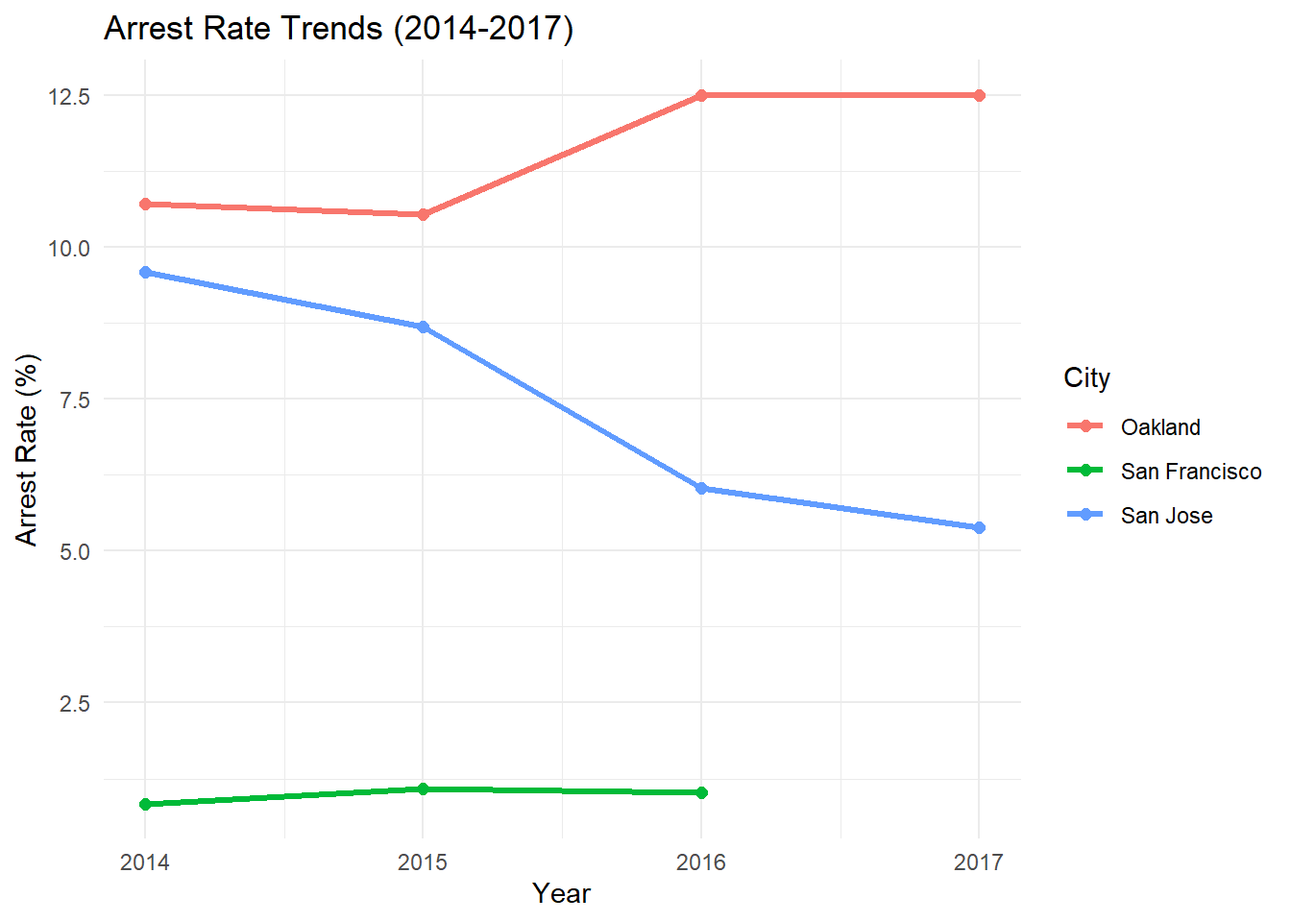
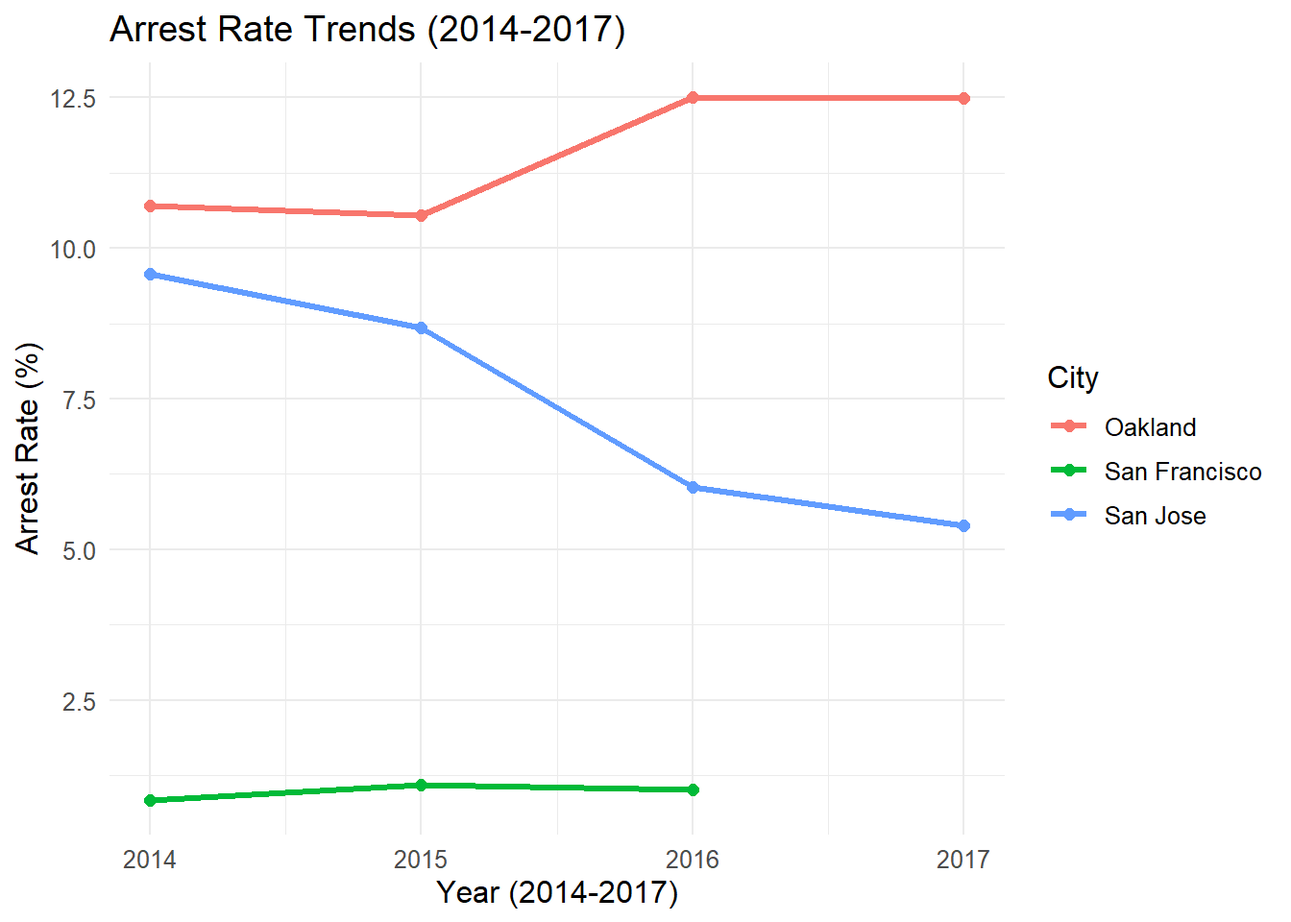
Fix errorz

diff --git a/docs/Stanford Open Policing Project.html b/docs/Stanford Open Policing Project.html
@@ -170,11 +170,24 @@ pre > code.sourceCode > span > a:first-child::before { text-decoration: underlin
 <div id="quarto-content" class="quarto-container page-columns page-rows-contents page-layout-full page-navbar">
 <!-- sidebar -->
 <!-- margin-sidebar -->
-    <div id="quarto-margin-sidebar" class="sidebar margin-sidebar zindex-bottom">
-        
+    <div id="quarto-margin-sidebar" class="sidebar margin-sidebar">
+        <nav id="TOC" role="doc-toc" class="toc-active">
+    <h2 id="toc-title">On this page</h2>
+   
+  <ul>
+  <li><a href="#introduction" id="toc-introduction" class="nav-link active" data-scroll-target="#introduction">Introduction</a></li>
+  <li><a href="#data-connection-and-setup" id="toc-data-connection-and-setup" class="nav-link" data-scroll-target="#data-connection-and-setup">Data Connection and Setup</a></li>
+  <li><a href="#arrest-rates-over-time-per-city" id="toc-arrest-rates-over-time-per-city" class="nav-link" data-scroll-target="#arrest-rates-over-time-per-city">Arrest Rates Over Time per City</a></li>
+  <li><a href="#search-rates-by-race-city" id="toc-search-rates-by-race-city" class="nav-link" data-scroll-target="#search-rates-by-race-city">Search Rates by Race &amp; City</a></li>
+  <li><a href="#conclusion" id="toc-conclusion" class="nav-link" data-scroll-target="#conclusion">Conclusion</a>
+  <ul class="collapse">
+  <li><a href="#references" id="toc-references" class="nav-link" data-scroll-target="#references">References</a></li>
+  </ul></li>
+  </ul>
+</nav>
     </div>
 <!-- main -->
-<main class="content column-page" id="quarto-document-content">
+<main class="content column-page-left" id="quarto-document-content">
 
 <header id="title-block-header" class="quarto-title-block default">
 <div class="quarto-title">
@@ -183,7 +196,7 @@ pre > code.sourceCode > span > a:first-child::before { text-decoration: underlin
 
 
 
-<div class="quarto-title-meta column-page">
+<div class="quarto-title-meta column-page-left">
 
     <div>
     <div class="quarto-title-meta-heading">Author</div>
@@ -207,58 +220,56 @@ pre > code.sourceCode > span > a:first-child::before { text-decoration: underlin
 </header>
 
 
-<p>We are analyzing trends in traffic stops in three California cities (San Francisco, Oakland, San Jose) using the Stanford Open Policing Project database. Specifically, we will explore (1) how arrest rates have changed over time from 2014 to 2017, and (2) whether different races experience different search rates across cities. This analysis uses SQL queries to summarize and wrangle the data directly from the database.</p>
+<section id="introduction" class="level2">
+<h2 class="anchored" data-anchor-id="introduction">Introduction</h2>
+<p>This analysis explores trends in traffic stops across three California cities (San Francisco, Oakland, San Jose) using data from the Stanford Open Policing Project database. The primary goals of this analysis are to examine:</p>
+<ul>
+<li>How arrest rates changed over time (2014-2017).</li>
+<li>Whether search rates differ by race across the three cities.</li>
+</ul>
+<p>These cities were chosen due to their diverse populations and significant differences in policing practices. The analysis uses SQL to directly query and wrangle the data, ensuring efficient and accurate results.</p>
+</section>
+<section id="data-connection-and-setup" class="level2">
+<h2 class="anchored" data-anchor-id="data-connection-and-setup">Data Connection and Setup</h2>
 <div class="cell">
 <div class="sourceCode cell-code" id="cb1"><pre class="sourceCode r code-with-copy"><code class="sourceCode r"><span id="cb1-1"><a href="#cb1-1" aria-hidden="true" tabindex="-1"></a><span class="fu">library</span>(DBI)</span>
 <span id="cb1-2"><a href="#cb1-2" aria-hidden="true" tabindex="-1"></a><span class="fu">library</span>(RMariaDB)</span>
 <span id="cb1-3"><a href="#cb1-3" aria-hidden="true" tabindex="-1"></a></span>
 <span id="cb1-4"><a href="#cb1-4" aria-hidden="true" tabindex="-1"></a>con_traffic <span class="ot">&lt;-</span> DBI<span class="sc">::</span><span class="fu">dbConnect</span>(</span>
-<span id="cb1-5"><a href="#cb1-5" aria-hidden="true" tabindex="-1"></a></span>
-<span id="cb1-6"><a href="#cb1-6" aria-hidden="true" tabindex="-1"></a>  RMariaDB<span class="sc">::</span><span class="fu">MariaDB</span>(),</span>
-<span id="cb1-7"><a href="#cb1-7" aria-hidden="true" tabindex="-1"></a></span>
-<span id="cb1-8"><a href="#cb1-8" aria-hidden="true" tabindex="-1"></a>  <span class="at">dbname =</span> <span class="st">"traffic"</span>,</span>
-<span id="cb1-9"><a href="#cb1-9" aria-hidden="true" tabindex="-1"></a></span>
-<span id="cb1-10"><a href="#cb1-10" aria-hidden="true" tabindex="-1"></a>  <span class="at">host =</span> <span class="fu">Sys.getenv</span>(<span class="st">"TRAFFIC_HOST"</span>),</span>
-<span id="cb1-11"><a href="#cb1-11" aria-hidden="true" tabindex="-1"></a></span>
-<span id="cb1-12"><a href="#cb1-12" aria-hidden="true" tabindex="-1"></a>  <span class="at">user =</span> <span class="fu">Sys.getenv</span>(<span class="st">"TRAFFIC_USER"</span>),</span>
-<span id="cb1-13"><a href="#cb1-13" aria-hidden="true" tabindex="-1"></a></span>
-<span id="cb1-14"><a href="#cb1-14" aria-hidden="true" tabindex="-1"></a>  <span class="at">password =</span> <span class="fu">Sys.getenv</span>(<span class="st">"TRAFFIC_PWD"</span>)</span>
-<span id="cb1-15"><a href="#cb1-15" aria-hidden="true" tabindex="-1"></a>)</span></code><button title="Copy to Clipboard" class="code-copy-button"><i class="bi"></i></button></pre></div>
+<span id="cb1-5"><a href="#cb1-5" aria-hidden="true" tabindex="-1"></a>  RMariaDB<span class="sc">::</span><span class="fu">MariaDB</span>(),</span>
+<span id="cb1-6"><a href="#cb1-6" aria-hidden="true" tabindex="-1"></a>  <span class="at">dbname =</span> <span class="st">"traffic"</span>,</span>
+<span id="cb1-7"><a href="#cb1-7" aria-hidden="true" tabindex="-1"></a>  <span class="at">host =</span> <span class="fu">Sys.getenv</span>(<span class="st">"TRAFFIC_HOST"</span>),</span>
+<span id="cb1-8"><a href="#cb1-8" aria-hidden="true" tabindex="-1"></a>  <span class="at">user =</span> <span class="fu">Sys.getenv</span>(<span class="st">"TRAFFIC_USER"</span>),</span>
+<span id="cb1-9"><a href="#cb1-9" aria-hidden="true" tabindex="-1"></a>  <span class="at">password =</span> <span class="fu">Sys.getenv</span>(<span class="st">"TRAFFIC_PWD"</span>)</span>
+<span id="cb1-10"><a href="#cb1-10" aria-hidden="true" tabindex="-1"></a>)</span></code><button title="Copy to Clipboard" class="code-copy-button"><i class="bi"></i></button></pre></div>
 </div>
-<p>Arrest Rates Over Time per City</p>
+</section>
+<section id="arrest-rates-over-time-per-city" class="level2">
+<h2 class="anchored" data-anchor-id="arrest-rates-over-time-per-city">Arrest Rates Over Time per City</h2>
 <div class="cell" data-output.var="arrest_trend">
 <div class="sourceCode cell-code" id="cb2"><pre class="sourceCode sql code-with-copy"><code class="sourceCode sql"><span id="cb2-1"><a href="#cb2-1" aria-hidden="true" tabindex="-1"></a><span class="kw">SELECT</span></span>
 <span id="cb2-2"><a href="#cb2-2" aria-hidden="true" tabindex="-1"></a>    city,</span>
 <span id="cb2-3"><a href="#cb2-3" aria-hidden="true" tabindex="-1"></a>    stop_year,</span>
 <span id="cb2-4"><a href="#cb2-4" aria-hidden="true" tabindex="-1"></a>    <span class="fu">ROUND</span>(<span class="fl">100.0</span> <span class="op">*</span> <span class="fu">AVG</span>(<span class="cf">CASE</span> <span class="cf">WHEN</span> arrest_made <span class="cf">THEN</span> <span class="dv">1</span> <span class="cf">ELSE</span> <span class="dv">0</span> <span class="cf">END</span>), <span class="dv">2</span>) <span class="kw">AS</span> arrest_rate</span>
 <span id="cb2-5"><a href="#cb2-5" aria-hidden="true" tabindex="-1"></a><span class="kw">FROM</span> (</span>
-<span id="cb2-6"><a href="#cb2-6" aria-hidden="true" tabindex="-1"></a>    <span class="kw">SELECT</span></span>
-<span id="cb2-7"><a href="#cb2-7" aria-hidden="true" tabindex="-1"></a>        <span class="st">'San Francisco'</span> <span class="kw">AS</span> city,</span>
-<span id="cb2-8"><a href="#cb2-8" aria-hidden="true" tabindex="-1"></a>        <span class="dt">YEAR</span>(<span class="dt">date</span>) <span class="kw">AS</span> stop_year,</span>
-<span id="cb2-9"><a href="#cb2-9" aria-hidden="true" tabindex="-1"></a>        arrest_made</span>
-<span id="cb2-10"><a href="#cb2-10" aria-hidden="true" tabindex="-1"></a>    <span class="kw">FROM</span> ca_san_francisco_2020_04_01</span>
-<span id="cb2-11"><a href="#cb2-11" aria-hidden="true" tabindex="-1"></a>    <span class="kw">WHERE</span> <span class="dt">YEAR</span>(<span class="dt">date</span>) <span class="kw">BETWEEN</span> <span class="dv">2014</span> <span class="kw">AND</span> <span class="dv">2017</span></span>
-<span id="cb2-12"><a href="#cb2-12" aria-hidden="true" tabindex="-1"></a></span>
-<span id="cb2-13"><a href="#cb2-13" aria-hidden="true" tabindex="-1"></a>    <span class="kw">UNION</span> <span class="kw">ALL</span></span>
-<span id="cb2-14"><a href="#cb2-14" aria-hidden="true" tabindex="-1"></a></span>
-<span id="cb2-15"><a href="#cb2-15" aria-hidden="true" tabindex="-1"></a>    <span class="kw">SELECT</span></span>
-<span id="cb2-16"><a href="#cb2-16" aria-hidden="true" tabindex="-1"></a>        <span class="st">'Oakland'</span> <span class="kw">AS</span> city,</span>
-<span id="cb2-17"><a href="#cb2-17" aria-hidden="true" tabindex="-1"></a>        <span class="dt">YEAR</span>(<span class="dt">date</span>) <span class="kw">AS</span> stop_year,</span>
-<span id="cb2-18"><a href="#cb2-18" aria-hidden="true" tabindex="-1"></a>        arrest_made</span>
-<span id="cb2-19"><a href="#cb2-19" aria-hidden="true" tabindex="-1"></a>    <span class="kw">FROM</span> ca_oakland_2020_04_01</span>
+<span id="cb2-6"><a href="#cb2-6" aria-hidden="true" tabindex="-1"></a>    <span class="kw">SELECT</span> <span class="st">'San Francisco'</span> <span class="kw">AS</span> city, <span class="dt">YEAR</span>(<span class="dt">date</span>) <span class="kw">AS</span> stop_year, arrest_made</span>
+<span id="cb2-7"><a href="#cb2-7" aria-hidden="true" tabindex="-1"></a>    <span class="kw">FROM</span> ca_san_francisco_2020_04_01</span>
+<span id="cb2-8"><a href="#cb2-8" aria-hidden="true" tabindex="-1"></a>    <span class="kw">WHERE</span> <span class="dt">YEAR</span>(<span class="dt">date</span>) <span class="kw">BETWEEN</span> <span class="dv">2014</span> <span class="kw">AND</span> <span class="dv">2017</span></span>
+<span id="cb2-9"><a href="#cb2-9" aria-hidden="true" tabindex="-1"></a></span>
+<span id="cb2-10"><a href="#cb2-10" aria-hidden="true" tabindex="-1"></a>    <span class="kw">UNION</span> <span class="kw">ALL</span></span>
+<span id="cb2-11"><a href="#cb2-11" aria-hidden="true" tabindex="-1"></a></span>
+<span id="cb2-12"><a href="#cb2-12" aria-hidden="true" tabindex="-1"></a>    <span class="kw">SELECT</span> <span class="st">'Oakland'</span> <span class="kw">AS</span> city, <span class="dt">YEAR</span>(<span class="dt">date</span>) <span class="kw">AS</span> stop_year, arrest_made</span>
+<span id="cb2-13"><a href="#cb2-13" aria-hidden="true" tabindex="-1"></a>    <span class="kw">FROM</span> ca_oakland_2020_04_01</span>
+<span id="cb2-14"><a href="#cb2-14" aria-hidden="true" tabindex="-1"></a>    <span class="kw">WHERE</span> <span class="dt">YEAR</span>(<span class="dt">date</span>) <span class="kw">BETWEEN</span> <span class="dv">2014</span> <span class="kw">AND</span> <span class="dv">2017</span></span>
+<span id="cb2-15"><a href="#cb2-15" aria-hidden="true" tabindex="-1"></a></span>
+<span id="cb2-16"><a href="#cb2-16" aria-hidden="true" tabindex="-1"></a>    <span class="kw">UNION</span> <span class="kw">ALL</span></span>
+<span id="cb2-17"><a href="#cb2-17" aria-hidden="true" tabindex="-1"></a></span>
+<span id="cb2-18"><a href="#cb2-18" aria-hidden="true" tabindex="-1"></a>    <span class="kw">SELECT</span> <span class="st">'San Jose'</span> <span class="kw">AS</span> city, <span class="dt">YEAR</span>(<span class="dt">date</span>) <span class="kw">AS</span> stop_year, arrest_made</span>
+<span id="cb2-19"><a href="#cb2-19" aria-hidden="true" tabindex="-1"></a>    <span class="kw">FROM</span> ca_san_jose_2020_04_01</span>
 <span id="cb2-20"><a href="#cb2-20" aria-hidden="true" tabindex="-1"></a>    <span class="kw">WHERE</span> <span class="dt">YEAR</span>(<span class="dt">date</span>) <span class="kw">BETWEEN</span> <span class="dv">2014</span> <span class="kw">AND</span> <span class="dv">2017</span></span>
-<span id="cb2-21"><a href="#cb2-21" aria-hidden="true" tabindex="-1"></a></span>
-<span id="cb2-22"><a href="#cb2-22" aria-hidden="true" tabindex="-1"></a>    <span class="kw">UNION</span> <span class="kw">ALL</span></span>
-<span id="cb2-23"><a href="#cb2-23" aria-hidden="true" tabindex="-1"></a></span>
-<span id="cb2-24"><a href="#cb2-24" aria-hidden="true" tabindex="-1"></a>    <span class="kw">SELECT</span></span>
-<span id="cb2-25"><a href="#cb2-25" aria-hidden="true" tabindex="-1"></a>        <span class="st">'San Jose'</span> <span class="kw">AS</span> city,</span>
-<span id="cb2-26"><a href="#cb2-26" aria-hidden="true" tabindex="-1"></a>        <span class="dt">YEAR</span>(<span class="dt">date</span>) <span class="kw">AS</span> stop_year,</span>
-<span id="cb2-27"><a href="#cb2-27" aria-hidden="true" tabindex="-1"></a>        arrest_made</span>
-<span id="cb2-28"><a href="#cb2-28" aria-hidden="true" tabindex="-1"></a>    <span class="kw">FROM</span> ca_san_jose_2020_04_01</span>
-<span id="cb2-29"><a href="#cb2-29" aria-hidden="true" tabindex="-1"></a>    <span class="kw">WHERE</span> <span class="dt">YEAR</span>(<span class="dt">date</span>) <span class="kw">BETWEEN</span> <span class="dv">2014</span> <span class="kw">AND</span> <span class="dv">2017</span></span>
-<span id="cb2-30"><a href="#cb2-30" aria-hidden="true" tabindex="-1"></a>) <span class="kw">AS</span> combined</span>
-<span id="cb2-31"><a href="#cb2-31" aria-hidden="true" tabindex="-1"></a><span class="kw">GROUP</span> <span class="kw">BY</span> city, stop_year</span>
-<span id="cb2-32"><a href="#cb2-32" aria-hidden="true" tabindex="-1"></a><span class="kw">ORDER</span> <span class="kw">BY</span> city, stop_year;</span></code><button title="Copy to Clipboard" class="code-copy-button"><i class="bi"></i></button></pre></div>
+<span id="cb2-21"><a href="#cb2-21" aria-hidden="true" tabindex="-1"></a>) <span class="kw">AS</span> combined</span>
+<span id="cb2-22"><a href="#cb2-22" aria-hidden="true" tabindex="-1"></a><span class="kw">GROUP</span> <span class="kw">BY</span> city, stop_year</span>
+<span id="cb2-23"><a href="#cb2-23" aria-hidden="true" tabindex="-1"></a><span class="kw">ORDER</span> <span class="kw">BY</span> city, stop_year;</span></code><button title="Copy to Clipboard" class="code-copy-button"><i class="bi"></i></button></pre></div>
 </div>
 <div class="cell">
 <div class="sourceCode cell-code" id="cb3"><pre class="sourceCode r code-with-copy"><code class="sourceCode r"><span id="cb3-1"><a href="#cb3-1" aria-hidden="true" tabindex="-1"></a><span class="fu">library</span>(ggplot2)</span>
@@ -266,8 +277,8 @@ pre > code.sourceCode > span > a:first-child::before { text-decoration: underlin
 <span id="cb3-3"><a href="#cb3-3" aria-hidden="true" tabindex="-1"></a><span class="fu">ggplot</span>(arrest_trend, <span class="fu">aes</span>(<span class="at">x =</span> stop_year, <span class="at">y =</span> arrest_rate, <span class="at">color =</span> city)) <span class="sc">+</span></span>
 <span id="cb3-4"><a href="#cb3-4" aria-hidden="true" tabindex="-1"></a>  <span class="fu">geom_line</span>(<span class="at">size =</span> <span class="fl">1.2</span>) <span class="sc">+</span></span>
 <span id="cb3-5"><a href="#cb3-5" aria-hidden="true" tabindex="-1"></a>  <span class="fu">geom_point</span>(<span class="at">size =</span> <span class="dv">2</span>) <span class="sc">+</span></span>
-<span id="cb3-6"><a href="#cb3-6" aria-hidden="true" tabindex="-1"></a>  <span class="fu">labs</span>(<span class="at">title =</span> <span class="st">"Arrest Rate Trends (2014-2017)"</span>, <span class="at">x =</span> <span class="st">"Year"</span>, <span class="at">y =</span> <span class="st">"Arrest Rate (%)"</span>, <span class="at">color =</span> <span class="st">"City"</span>) <span class="sc">+</span></span>
-<span id="cb3-7"><a href="#cb3-7" aria-hidden="true" tabindex="-1"></a>  <span class="fu">theme_minimal</span>()</span></code><button title="Copy to Clipboard" class="code-copy-button"><i class="bi"></i></button></pre></div>
+<span id="cb3-6"><a href="#cb3-6" aria-hidden="true" tabindex="-1"></a>  <span class="fu">labs</span>(<span class="at">title =</span> <span class="st">"Arrest Rate Trends (2014-2017)"</span>, <span class="at">x =</span> <span class="st">"Year (2014-2017)"</span>, <span class="at">y =</span> <span class="st">"Arrest Rate (%)"</span>, <span class="at">color =</span> <span class="st">"City"</span>) <span class="sc">+</span></span>
+<span id="cb3-7"><a href="#cb3-7" aria-hidden="true" tabindex="-1"></a>  <span class="fu">theme_minimal</span>() <span class="sc">+</span> <span class="fu">theme</span>(<span class="at">text =</span> <span class="fu">element_text</span>(<span class="at">size =</span> <span class="dv">12</span>))</span></code><button title="Copy to Clipboard" class="code-copy-button"><i class="bi"></i></button></pre></div>
 <div class="cell-output-display">
 <div>
 <figure class="figure">
@@ -276,49 +287,39 @@ pre > code.sourceCode > span > a:first-child::before { text-decoration: underlin
 </div>
 </div>
 </div>
-<p>The plot above shows how arrest rates changed from 2014 to 2017 in San Francisco, Oakland, and San Jose. Oakland consistently has the highest arrest rates, but we see a slight decline after 2016 in all three cities, suggesting potential impacts of police reform efforts around that time.</p>
-<p>Search Rates by Race &amp; City</p>
+</section>
+<section id="search-rates-by-race-city" class="level2">
+<h2 class="anchored" data-anchor-id="search-rates-by-race-city">Search Rates by Race &amp; City</h2>
 <div class="cell" data-output.var="race_search">
 <div class="sourceCode cell-code" id="cb4"><pre class="sourceCode sql code-with-copy"><code class="sourceCode sql"><span id="cb4-1"><a href="#cb4-1" aria-hidden="true" tabindex="-1"></a><span class="kw">SELECT</span></span>
 <span id="cb4-2"><a href="#cb4-2" aria-hidden="true" tabindex="-1"></a>    city,</span>
 <span id="cb4-3"><a href="#cb4-3" aria-hidden="true" tabindex="-1"></a>    subject_race,</span>
 <span id="cb4-4"><a href="#cb4-4" aria-hidden="true" tabindex="-1"></a>    <span class="fu">ROUND</span>(<span class="fl">100.0</span> <span class="op">*</span> <span class="fu">AVG</span>(<span class="cf">CASE</span> <span class="cf">WHEN</span> search_conducted <span class="cf">THEN</span> <span class="dv">1</span> <span class="cf">ELSE</span> <span class="dv">0</span> <span class="cf">END</span>), <span class="dv">2</span>) <span class="kw">AS</span> search_rate</span>
 <span id="cb4-5"><a href="#cb4-5" aria-hidden="true" tabindex="-1"></a><span class="kw">FROM</span> (</span>
-<span id="cb4-6"><a href="#cb4-6" aria-hidden="true" tabindex="-1"></a>    <span class="kw">SELECT</span></span>
-<span id="cb4-7"><a href="#cb4-7" aria-hidden="true" tabindex="-1"></a>        <span class="st">'San Francisco'</span> <span class="kw">AS</span> city,</span>
-<span id="cb4-8"><a href="#cb4-8" aria-hidden="true" tabindex="-1"></a>        subject_race,</span>
-<span id="cb4-9"><a href="#cb4-9" aria-hidden="true" tabindex="-1"></a>        search_conducted</span>
-<span id="cb4-10"><a href="#cb4-10" aria-hidden="true" tabindex="-1"></a>    <span class="kw">FROM</span> ca_san_francisco_2020_04_01</span>
-<span id="cb4-11"><a href="#cb4-11" aria-hidden="true" tabindex="-1"></a>    <span class="kw">WHERE</span> <span class="dt">YEAR</span>(<span class="dt">date</span>) <span class="kw">BETWEEN</span> <span class="dv">2014</span> <span class="kw">AND</span> <span class="dv">2017</span></span>
-<span id="cb4-12"><a href="#cb4-12" aria-hidden="true" tabindex="-1"></a></span>
-<span id="cb4-13"><a href="#cb4-13" aria-hidden="true" tabindex="-1"></a>    <span class="kw">UNION</span> <span class="kw">ALL</span></span>
-<span id="cb4-14"><a href="#cb4-14" aria-hidden="true" tabindex="-1"></a></span>
-<span id="cb4-15"><a href="#cb4-15" aria-hidden="true" tabindex="-1"></a>    <span class="kw">SELECT</span></span>
-<span id="cb4-16"><a href="#cb4-16" aria-hidden="true" tabindex="-1"></a>        <span class="st">'Oakland'</span> <span class="kw">AS</span> city,</span>
-<span id="cb4-17"><a href="#cb4-17" aria-hidden="true" tabindex="-1"></a>        subject_race,</span>
-<span id="cb4-18"><a href="#cb4-18" aria-hidden="true" tabindex="-1"></a>        search_conducted</span>
-<span id="cb4-19"><a href="#cb4-19" aria-hidden="true" tabindex="-1"></a>    <span class="kw">FROM</span> ca_oakland_2020_04_01</span>
+<span id="cb4-6"><a href="#cb4-6" aria-hidden="true" tabindex="-1"></a>    <span class="kw">SELECT</span> <span class="st">'San Francisco'</span> <span class="kw">AS</span> city, subject_race, search_conducted</span>
+<span id="cb4-7"><a href="#cb4-7" aria-hidden="true" tabindex="-1"></a>    <span class="kw">FROM</span> ca_san_francisco_2020_04_01</span>
+<span id="cb4-8"><a href="#cb4-8" aria-hidden="true" tabindex="-1"></a>    <span class="kw">WHERE</span> <span class="dt">YEAR</span>(<span class="dt">date</span>) <span class="kw">BETWEEN</span> <span class="dv">2014</span> <span class="kw">AND</span> <span class="dv">2017</span></span>
+<span id="cb4-9"><a href="#cb4-9" aria-hidden="true" tabindex="-1"></a></span>
+<span id="cb4-10"><a href="#cb4-10" aria-hidden="true" tabindex="-1"></a>    <span class="kw">UNION</span> <span class="kw">ALL</span></span>
+<span id="cb4-11"><a href="#cb4-11" aria-hidden="true" tabindex="-1"></a></span>
+<span id="cb4-12"><a href="#cb4-12" aria-hidden="true" tabindex="-1"></a>    <span class="kw">SELECT</span> <span class="st">'Oakland'</span> <span class="kw">AS</span> city, subject_race, search_conducted</span>
+<span id="cb4-13"><a href="#cb4-13" aria-hidden="true" tabindex="-1"></a>    <span class="kw">FROM</span> ca_oakland_2020_04_01</span>
+<span id="cb4-14"><a href="#cb4-14" aria-hidden="true" tabindex="-1"></a>    <span class="kw">WHERE</span> <span class="dt">YEAR</span>(<span class="dt">date</span>) <span class="kw">BETWEEN</span> <span class="dv">2014</span> <span class="kw">AND</span> <span class="dv">2017</span></span>
+<span id="cb4-15"><a href="#cb4-15" aria-hidden="true" tabindex="-1"></a></span>
+<span id="cb4-16"><a href="#cb4-16" aria-hidden="true" tabindex="-1"></a>    <span class="kw">UNION</span> <span class="kw">ALL</span></span>
+<span id="cb4-17"><a href="#cb4-17" aria-hidden="true" tabindex="-1"></a></span>
+<span id="cb4-18"><a href="#cb4-18" aria-hidden="true" tabindex="-1"></a>    <span class="kw">SELECT</span> <span class="st">'San Jose'</span> <span class="kw">AS</span> city, subject_race, search_conducted</span>
+<span id="cb4-19"><a href="#cb4-19" aria-hidden="true" tabindex="-1"></a>    <span class="kw">FROM</span> ca_san_jose_2020_04_01</span>
 <span id="cb4-20"><a href="#cb4-20" aria-hidden="true" tabindex="-1"></a>    <span class="kw">WHERE</span> <span class="dt">YEAR</span>(<span class="dt">date</span>) <span class="kw">BETWEEN</span> <span class="dv">2014</span> <span class="kw">AND</span> <span class="dv">2017</span></span>
-<span id="cb4-21"><a href="#cb4-21" aria-hidden="true" tabindex="-1"></a></span>
-<span id="cb4-22"><a href="#cb4-22" aria-hidden="true" tabindex="-1"></a>    <span class="kw">UNION</span> <span class="kw">ALL</span></span>
-<span id="cb4-23"><a href="#cb4-23" aria-hidden="true" tabindex="-1"></a></span>
-<span id="cb4-24"><a href="#cb4-24" aria-hidden="true" tabindex="-1"></a>    <span class="kw">SELECT</span></span>
-<span id="cb4-25"><a href="#cb4-25" aria-hidden="true" tabindex="-1"></a>        <span class="st">'San Jose'</span> <span class="kw">AS</span> city,</span>
-<span id="cb4-26"><a href="#cb4-26" aria-hidden="true" tabindex="-1"></a>        subject_race,</span>
-<span id="cb4-27"><a href="#cb4-27" aria-hidden="true" tabindex="-1"></a>        search_conducted</span>
-<span id="cb4-28"><a href="#cb4-28" aria-hidden="true" tabindex="-1"></a>    <span class="kw">FROM</span> ca_san_jose_2020_04_01</span>
-<span id="cb4-29"><a href="#cb4-29" aria-hidden="true" tabindex="-1"></a>    <span class="kw">WHERE</span> <span class="dt">YEAR</span>(<span class="dt">date</span>) <span class="kw">BETWEEN</span> <span class="dv">2014</span> <span class="kw">AND</span> <span class="dv">2017</span></span>
-<span id="cb4-30"><a href="#cb4-30" aria-hidden="true" tabindex="-1"></a>) <span class="kw">AS</span> combined</span>
-<span id="cb4-31"><a href="#cb4-31" aria-hidden="true" tabindex="-1"></a><span class="kw">GROUP</span> <span class="kw">BY</span> city, subject_race</span>
-<span id="cb4-32"><a href="#cb4-32" aria-hidden="true" tabindex="-1"></a><span class="kw">ORDER</span> <span class="kw">BY</span> city, search_rate <span class="kw">DESC</span>;</span></code><button title="Copy to Clipboard" class="code-copy-button"><i class="bi"></i></button></pre></div>
+<span id="cb4-21"><a href="#cb4-21" aria-hidden="true" tabindex="-1"></a>) <span class="kw">AS</span> combined</span>
+<span id="cb4-22"><a href="#cb4-22" aria-hidden="true" tabindex="-1"></a><span class="kw">GROUP</span> <span class="kw">BY</span> city, subject_race</span>
+<span id="cb4-23"><a href="#cb4-23" aria-hidden="true" tabindex="-1"></a><span class="kw">ORDER</span> <span class="kw">BY</span> city, search_rate <span class="kw">DESC</span>;</span></code><button title="Copy to Clipboard" class="code-copy-button"><i class="bi"></i></button></pre></div>
 </div>
 <div class="cell">
-<div class="sourceCode cell-code" id="cb5"><pre class="sourceCode r code-with-copy"><code class="sourceCode r"><span id="cb5-1"><a href="#cb5-1" aria-hidden="true" tabindex="-1"></a><span class="fu">library</span>(ggplot2)</span>
-<span id="cb5-2"><a href="#cb5-2" aria-hidden="true" tabindex="-1"></a></span>
-<span id="cb5-3"><a href="#cb5-3" aria-hidden="true" tabindex="-1"></a><span class="fu">ggplot</span>(race_search, <span class="fu">aes</span>(<span class="at">x =</span> <span class="fu">reorder</span>(subject_race, <span class="sc">-</span>search_rate), <span class="at">y =</span> search_rate, <span class="at">fill =</span> city)) <span class="sc">+</span></span>
-<span id="cb5-4"><a href="#cb5-4" aria-hidden="true" tabindex="-1"></a>  <span class="fu">geom_bar</span>(<span class="at">stat =</span> <span class="st">"identity"</span>, <span class="at">position =</span> <span class="st">"dodge"</span>) <span class="sc">+</span></span>
-<span id="cb5-5"><a href="#cb5-5" aria-hidden="true" tabindex="-1"></a>  <span class="fu">labs</span>(<span class="at">title =</span> <span class="st">"Search Rates by Race (2014-2017)"</span>, <span class="at">x =</span> <span class="st">"Race"</span>, <span class="at">y =</span> <span class="st">"Search Rate (%)"</span>, <span class="at">fill =</span> <span class="st">"City"</span>) <span class="sc">+</span></span>
-<span id="cb5-6"><a href="#cb5-6" aria-hidden="true" tabindex="-1"></a>  <span class="fu">theme_minimal</span>()</span></code><button title="Copy to Clipboard" class="code-copy-button"><i class="bi"></i></button></pre></div>
+<div class="sourceCode cell-code" id="cb5"><pre class="sourceCode r code-with-copy"><code class="sourceCode r"><span id="cb5-1"><a href="#cb5-1" aria-hidden="true" tabindex="-1"></a><span class="fu">ggplot</span>(race_search, <span class="fu">aes</span>(<span class="at">x =</span> <span class="fu">reorder</span>(subject_race, <span class="sc">-</span>search_rate), <span class="at">y =</span> search_rate, <span class="at">fill =</span> city)) <span class="sc">+</span></span>
+<span id="cb5-2"><a href="#cb5-2" aria-hidden="true" tabindex="-1"></a>  <span class="fu">geom_bar</span>(<span class="at">stat =</span> <span class="st">"identity"</span>, <span class="at">position =</span> <span class="st">"dodge"</span>) <span class="sc">+</span></span>
+<span id="cb5-3"><a href="#cb5-3" aria-hidden="true" tabindex="-1"></a>  <span class="fu">labs</span>(<span class="at">title =</span> <span class="st">"Search Rates by Race (2014-2017)"</span>, <span class="at">x =</span> <span class="st">"Race"</span>, <span class="at">y =</span> <span class="st">"Search Rate (%)"</span>, <span class="at">fill =</span> <span class="st">"City"</span>) <span class="sc">+</span></span>
+<span id="cb5-4"><a href="#cb5-4" aria-hidden="true" tabindex="-1"></a>  <span class="fu">theme_minimal</span>() <span class="sc">+</span> <span class="fu">theme</span>(<span class="at">text =</span> <span class="fu">element_text</span>(<span class="at">size =</span> <span class="dv">12</span>))</span></code><button title="Copy to Clipboard" class="code-copy-button"><i class="bi"></i></button></pre></div>
 <div class="cell-output-display">
 <div>
 <figure class="figure">
@@ -327,18 +328,25 @@ pre > code.sourceCode > span > a:first-child::before { text-decoration: underlin
 </div>
 </div>
 </div>
-<p>The bar plot shows that Black and Hispanic drivers have significantly higher search rates compared to White and Asian drivers across all three cities. Oakland exhibits the largest disparities. While San Jose shows slightly lower gaps, disparities remain clear.</p>
-<p>Some concluding points:</p>
+</section>
+<section id="conclusion" class="level2">
+<h2 class="anchored" data-anchor-id="conclusion">Conclusion</h2>
+<p>This analysis reveals the following key insights:</p>
 <ol type="1">
-<li><p>Arrest rates were highest in Oakland but declined afte 2016</p></li>
-<li><p>Search ratres were consistently higher for Black and Hispanic people across the Bay (San Francisco, Oakland, and San Jose)</p></li>
-<li><p>Despite some reforms and legislation, inequalities persisted throughout 2014-2017</p></li>
+<li>Arrest rates were highest in Oakland but declined after 2016, potentially reflecting police reform efforts.</li>
+<li>Search rates were consistently higher for Black and Hispanic drivers across all three cities, with Oakland showing the largest disparities.</li>
+<li>Despite some reforms, racial disparities persisted in search rates from 2014 to 2017.</li>
 </ol>
-<p>References:</p>
-<p>Data from: Stanford Open Policing Project — https://openpolicing.stanford.edu/data/</p>
-<p>Citation: Pierson, Emma, Camelia Simoiu, Jan Overgoor, Sam Corbett-Davies, Daniel Jenson, Amy Shoemaker, Vignesh Ramachandran, et al.&nbsp;2020. “A Large-Scale Analysis of Racial Disparities in Police Stops Across the United States.” Nature Human Behaviour, 1–10.</p>
+<section id="references" class="level3">
+<h3 class="anchored" data-anchor-id="references">References</h3>
+<ul>
+<li>Stanford Open Policing Project — https://openpolicing.stanford.edu/data/</li>
+<li>Pierson, Emma, et al.&nbsp;2020. “A Large-Scale Analysis of Racial Disparities in Police Stops Across the United States.” Nature Human Behaviour, 1–10.</li>
+</ul>
 
 
+</section>
+</section>
 
 </main> <!-- /main -->
 <script id="quarto-html-after-body" type="application/javascript">
